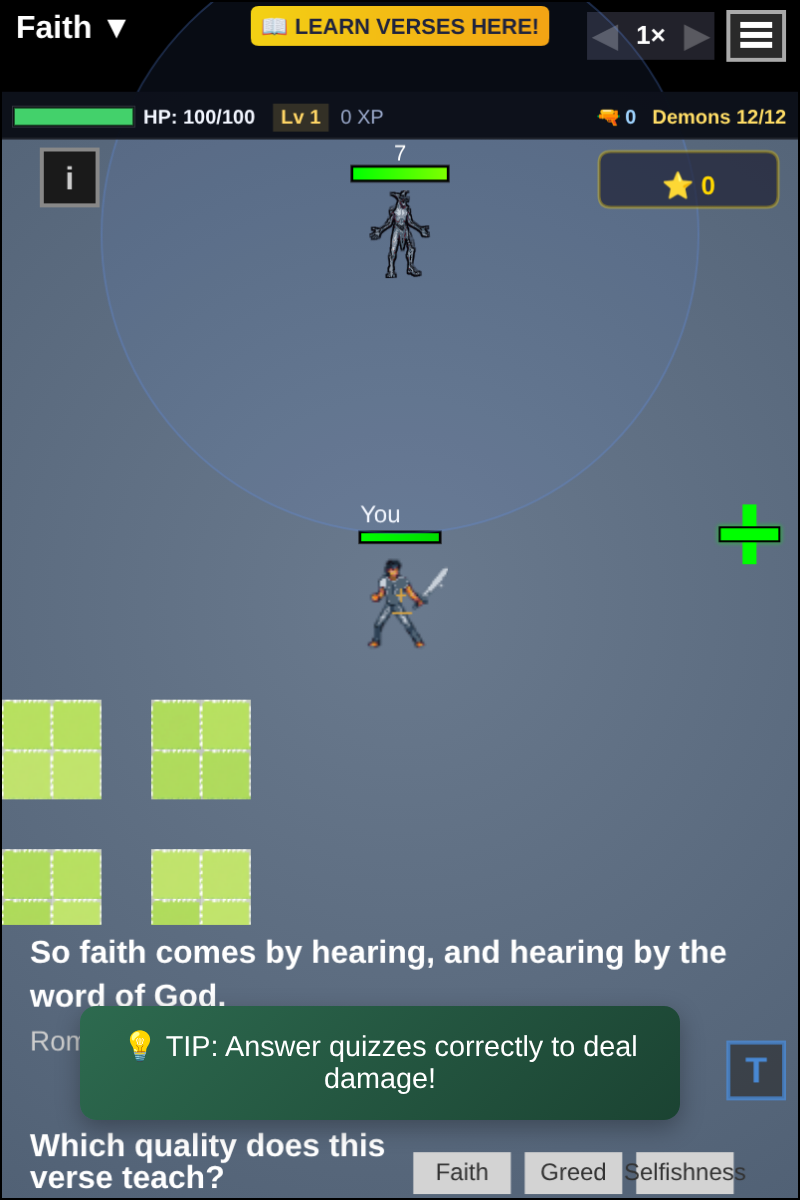
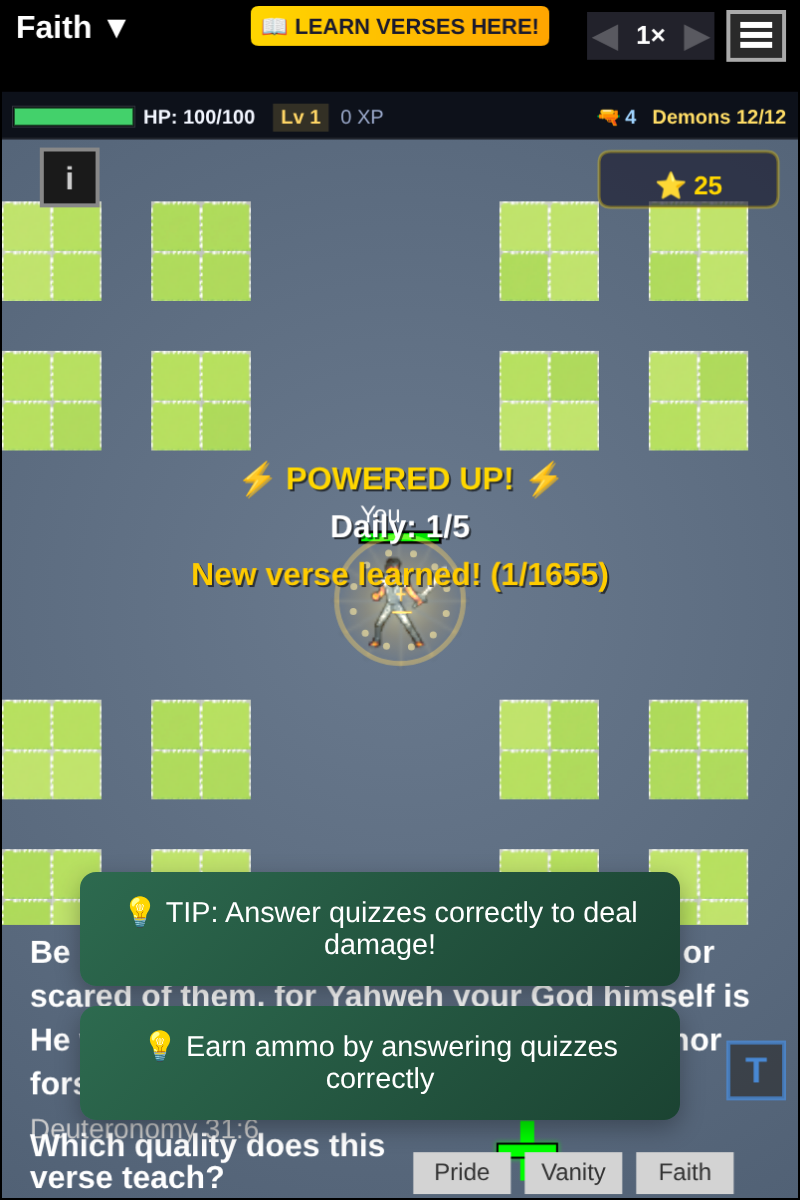
test(step0): verify correct answers for all five quiz modes

diff --git a/scripts/test-step0-regression.js b/scripts/test-step0-regression.js
@@ -141,7 +141,34 @@ async function captureQuizModes(browser, errors) {
       await page.locator('#gameCanvas').screenshot({
         path: path.join(OUTPUT_DIR, 'quiz', `${quizMode.mode}.png`)
       });
-      results.push(result);
+      const answer = await page.evaluate(async (entry) => {
+        const quiz = typeof currentQuiz !== 'undefined' ? currentQuiz : null;
+        if (!quiz || quiz.mode !== entry.mode) {
+          return { answered: false, reason: 'mode changed before answer' };
+        }
+        const ammoBefore = player.ammo || 0;
+        if (entry.mode === 'cloze') {
+          let guard = 0;
+          while (!quiz.isComplete && guard < 12) {
+            const word = quiz.answers[quiz.currentWordIndex];
+            window.QuizManager.handleClozeLetterSelect(word.charAt(0).toUpperCase());
+            guard += 1;
+          }
+        } else {
+          const correct = Array.isArray(quiz.options) ? quiz.options.find((option) => option.isCorrect) : null;
+          if (!correct) return { answered: false, reason: 'no correct option' };
+          window.QuizManager.handleQuizAnswer(correct);
+        }
+        await new Promise((resolve) => setTimeout(resolve, 120));
+        return {
+          answered: true,
+          isAnswerCorrect: typeof isAnswerCorrect !== 'undefined' ? isAnswerCorrect : null,
+          ammoBefore,
+          ammoAfter: player.ammo,
+          completed: entry.mode === 'cloze' ? !!quiz.isComplete : true
+        };
+      }, quizMode);
+      results.push(Object.assign({}, result, answer));
     }
     return { settings, results };
   } finally {
@@ -211,6 +238,12 @@ async function main() {
     }
     if (!result.hasAnswer) {
       failures.push(`quiz ${result.requested}: missing answer data`);
+    }
+    if (!result.answered || result.isAnswerCorrect !== true) {
+      failures.push(`quiz ${result.requested}: correct answer was not accepted (${JSON.stringify(result)})`);
+    }
+    if (!(result.ammoAfter > result.ammoBefore)) {
+      failures.push(`quiz ${result.requested}: ammo reward did not increase (${result.ammoBefore} -> ${result.ammoAfter})`);
     }
   }
   if (!summary.mission || summary.mission.missionId !== 'intro-01') {

diff --git a/output/step0/README.md b/output/step0/README.md
@@ -62,7 +62,8 @@ node test/game-integration-test.js
 Results recorded during this pass:
 
 - `node scripts/test-step0-regression.js` — passed. 4 widths at DPR 2,
-  5/5 quiz modes generated with answer data, solo mission reached `game` mode.
+  5/5 quiz modes generated and answered correctly (ammo reward increased),
+  solo mission reached `game` mode.
 - `npm run test:three-views` — passed; 2D, third-person and first-person modes
   load and switch.
 - `node scripts/test-multiplayer-regression.js` — passed. A 2-player room was
